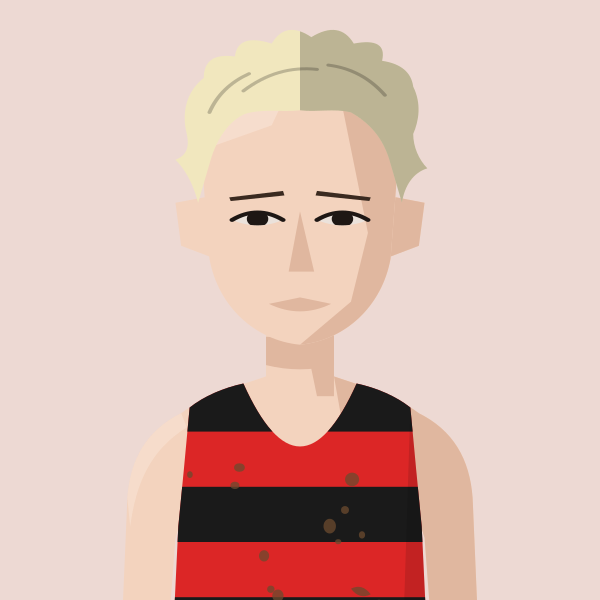
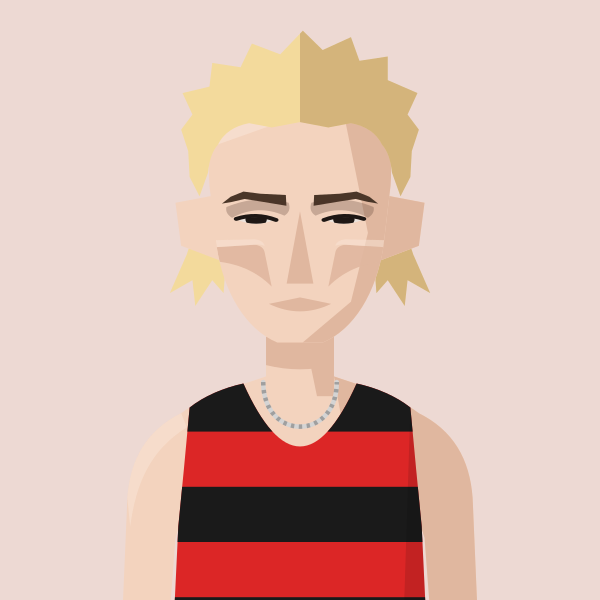
Redraw Morgan Roberts: bleached spiky top, tufts behind the ears, small deep-set eyes, cheekbones
Claude-Session: https://claude.ai/code/session_01MgmDWhFqnSSnP4iBLKXUZC

diff --git a/files/index.html b/files/index.html
@@ -827,7 +827,7 @@ const portraitFile=(name,club)=>{const k=normalizeNameForCompare(name||'').repla
 const portraitClubOf=(name,clubs)=>{for(const c of clubs||[]){if(c&&portraitFile(name,c))return c;}return null;}; /* first of these clubs we have a portrait for */
 // Athlete header figure: superstar portrait if we have one, else a grey runner in the club vest, else the plain vest icon
 // Changes whenever any portrait changes (set by tools/build_og.py), so browsers fetch fresh images instead of old cached ones
-const PORTRAIT_V='976057e5';const PORTRAIT_WOMEN='abbey-brooke,abbie-bulbulian,adele-prince,aimee-hargreaves,aisling-ahern,alex-brown,alex-gandee,alex-marginean,alex-miller,alexa-parker,alexandra-barbour,alice-braham,alice-bridger-morales,alice-crane,alice-martin,alice-reed,alice-smith,alison-purnell,alison-thomson,amelia-pettitt,amy-clements,andrea-barber,anika-schwarze-chintapatla,anna-garnier,anna-garnier-hw,anna-sharp,annabel-hobday,annabelle-hadlow,anne-hegvold,annmarie-seymour,ava-mcandie,becky-briggs,bethan-goddard,bethanie-murray,bethany-brown,betsy-griffiths,billie-mcclosky,camilla-barden,caoimhe-nic-fhogartaigh,carolyne-baxter,catherine-bryson,catherine-eastham,catherine-kandie,cathy-ansell,charlotte-griffiths,chloe-beckett,chloe-tighe,chrissie-wellington,claire-grima,clara-pettit,clare-elms,clare-pauzers,dillan-quinn,dorchie-cockerell,eilidh-hide,elinor-skinner,eliza-grant,elizabeth-apsley,elizabeth-stavreski,ella-fennelly,ella-king-powrie,ella-may-hards,ella-newton,ellen-weir,ellie-brown,ellie-freeden,eloise-bull,emilie-arnoux,emily-barrett,emily-bradley,emily-lowery,emily-robbins,emma-gordon,emma-howsham,emma-lord,emma-rowland,estle-viljoen,evie-warren,felicity-cole,felicity-harrison,felicity-hayward,fi-maddocks,fiona-de-mauny,florence-wiggins,gabby-collison,gabriel-reynolds,gemma-newport,genevieve-blanch,georgia-curry,georgie-bruinvels,georgie-fenn,georgie-furze,georgie-grgec,gina-galbraith,grace-leyland,grace-richardson,hannah-edwards,hannah-english,heather-statham,heather-statham-cc,helena-corbin,helena-keenan,holly-nixon,holly-pan,imogen-mackie,imogen-wolsey,iona-cousland,isabel-bradley,isabel-brinsden,isabelle-pickett,isobel-hodder,jennifer-nandi,jennifer-smith,jess-reed,jess-saunders,jess-winfield,jessica-davies,jessica-lowe,jodie-favell,josephine-rhodes,julia-bleasdale,julia-wedmore,juliet-hodder,jurgita-levertaviciute,justine-lynch,karen-fenner,karen-xiang,karina-box,kate-axford,kate-williams,kathy-sharpe,katie-ellen-french,katie-good,katie-snowden,katy-hedgethorne,kitty-shepherd-cross,kristina-popadich,lara-bromilow,lara-mangan,laura-goodson,laura-miles,lauren-major,lea-adamson,lily-newton,lisa-bailey,lisa-thomas,lisa-thomas-hw,lizzie-goldie-scot,louise-cooper,lucy-jones,lucy-macalister,lucy-peters,lydia-blackmore,lydia-gallyer-barnett,maddie-mastrolonardo,maddy-whitman,maeve-kenny,margaret-coogan,martina-conner,mary-james,mary-setyabule,matilde-lomba,megan-gildea,mel-wilkins,mhairi-hall,mimi-corden-lloyd,molly-oconnor,molly-smith,monika-gajek,naomi-lenane,natalie-beadle,natalie-seymour,natasha-lodge,niamh-thompson,nicky-hayes,nicola-cartlidge,nicola-douglas,nikki-sturzaker,olivia-papaioannou,olivia-stillman,orna-mcginley,pamela-mchutchon,patricia-walker,patrizia-gnoato,penny-oliver,rachel-brown,rebecca-barrow,rebekah-edgar,ruby-carter,ruby-whyte-wilding,ruby-woolfe,sally-urquhart,sam-whiting,samantha-munday,sarah-astin,sarah-dewhirst,sarah-grover,sarah-hanley,sarah-holt,sarah-murphy,sarah-palmer,sarah-palmer-ran,sarah-riceman,sarah-young,saron-haileselase,serena-carter,sophie-cowper,sophie-harris,sophie-hicks,sophie-tooley,stacey-ward,steph-hewitt,steph-mccall,steph-mccall-cc,steph-mccall-slh,steph-mitchell,suzanne-swaine,suze-spalding,suzie-harvey,suzy-whatmough,teresa-murphy,tilly-heaton,tilly-heaton-bel,tish-jones,vic-cartwright,vicky-clarke,victoria-barthelmess,victoria-buck,vikki-filsell,zoe-doyle,zoe-macdonald,zuzana-nemeckova';const PORTRAIT_MEN='aaron-wilson,abdulla-elsadig,adam-leane,adrian-major,adrien-royer,alan-black,alan-mead,alex-brecker,alex-bruce-littlewood,alex-gutteridge,alex-harris,alex-howard,alex-janiaud,alex-lee,alex-lennon,alex-mills,alex-milne,alex-morales,alex-robinson,alex-yee,alexander-marks,amittai-ben-israel,andrew-cumine,andrew-green,andrew-penney,andrew-perfect,andrew-simms,andrew-warburton,andrius-jaksevicius,andy-coley-maud,andy-coley-maud-cc,andy-fyfe,andy-north,andy-paton,andy-weir,angus-butler,angus-lamb,anisse-ismaili,arlo-ludewick,arne-dumez,arthur-peel,ashley-goncalves,barnaby-day,barry-collins,barry-sawyer,ben-clarke,ben-coughlan,ben-harding,ben-hurley,ben-ireland,ben-millar,ben-paviour,ben-pearce,ben-racle,ben-revill,ben-reynolds,ben-scott,ben-toomer,benedict-whitby,benjamin-hilson,bernie-ford,bill-kerr,bill-weller,bill-weller-wal,bob-harrison,bob-holt,bob-lunnon,bob-rayman,bob-smith,bradley-courtney-pinn,brandon-dewar,brian-gorman,brian-wilder,caleb-hathaway,callum-stewart,cameron-dockerill,cameron-reilly,carl-delaney,charles-herrington,charlie-dabbs,charlie-dickinson,charlie-eastaugh,charlie-manning,charlie-pickett,charlie-rogers,charlie-sandison,charlie-walker,charlie-wyllie,che-compton,chris-busaileh,chris-busaileh-hhh,chris-greenwood,chris-keavey,chris-moss,chris-steer,chris-threadgold,chris-warren,christian-lee,christopher-parker,clive-gilby,clive-shippen,colin-high,colin-pearson,conall-mcnally,conall-whelan,craig-ruddy,dame-dibaba,dan-cliffe,dan-pettitt,daniel-shaw,daniel-wolff,darren-mead,dave-beard,dave-beaver,dave-glassborow,dave-holt,dave-taylor,david-anderson,david-bowers,david-grima,david-north,david-ogden,david-symons,david-walsh,david-williams,deron-fagan,dick-piotrowski,dimos-evangelidis,dominic-kiralyfi,don-anderson,don-faircloth,don-maclean,doug-maughan,duncan-rimmer,dylan-evans,dylan-mitchard,ed-brewer,ed-catmur,ed-gibson,ed-mallett,eddie-herridge,eddie-jodrell,eddie-rolls,edward-chuck,eoin-brady,eoin-molloy,ethan-mccolgan,falilou-kebe,findlay-dyer,finn-johnson,fintan-pearce,frank-tickner,frank-ward,fred-paget,fred-slemeck,freddie-hessian,garret-lee,gary-ribbons,gary-ribbons-ee,gary-staines,gary-staines-bel,gavin-eccles,geoff-biscoe,geoff-jerwood,geoff-north,george-cotton,george-gathercole,george-jackson,george-loxton,george-mallett,george-ogden,gerry-adams,gerry-north,glen-keegan,gordon-pearce,graham-macky,harrison-hayman,harry-guttridge,hector-revill,henry-hart,henry-silverstein,hugo-hewitt,huw-lobb,ian-acreman,ian-crowe-wright,ian-ellwood,ian-harkness,indy-barnes,isaac-lutaya,isaac-parker,jack-brotchie,jack-dickson,jack-dormer,jack-hampshire,jack-harrison,jack-hobden,jack-kavanagh,jack-millar,jack-ramm,jack-woods,jacob-brockmann,jake-simmonds,james-bartram,james-blackwood,james-bowler,james-estall,james-ewing,james-fox,james-hancock,james-harvey,james-hoad,james-kelly,james-mcmullan,james-murray,james-nutt,james-preston,james-roberts,james-stockings,james-ward,james-wootton,jamie-crowe,jamie-parkinson,jared-martin,jean-paul-wright,jeff-cunningham,jeremy-dempsey,jermaine-mays,jerry-watson,jim-allchin,jim-rimmer,joe-english,joe-hartley,john-baker,john-bicourt,john-bromley,john-davies,john-dear,john-foss,john-foxall,john-gilbert,john-gladwin,john-hutchins,john-kendall,john-kimaiyo,john-lee,john-lethbridge,john-mather,john-moore,john-roberts,john-sanderson,john-stow,john-sullivan,john-thresher,jon-hobbs,jon-pepper,jon-pepper-slh,jon-phillips,jon-solly,jonathan-cocker,jonathan-collier,jonathan-cornish,jonathan-ratcliffe,jonathan-tipper,jonny-neville,jonny-scott,jordan-weaver,josh-mitchell,josh-snow,josh-trigwell,jules-gevers,junior-galley,justin-chaston,justin-reid,kassa-tadesse,keith-newton,kevin-nash,kevin-quinn,kevin-sturman,kieran-barnes,kieran-white,knut-hegvold,knut-hegvold-bel,larry-ryan,lawrence-avery,lee-lintern,lewis-lloyd,liam-burthem,lionel-mann,lloyd-kempson,luke-caldwell,mack-downie,malachi-byansi,marcello-bizio,marcelo-fortes,marco-mazzotta,mark-anderson,mark-miles,mark-sinclair,mark-tennyson,mark-waller,martin-dent,martin-lake,martin-lewington,martin-shore,mathew-speed,matt-chaston,matt-jones,matt-wood,matthew-edgar,matthew-houchell,matthew-thomas,matthew-varley,max-bloor,max-heyden,max-milarvie,max-nicholls,michael-baker,michael-mccarthy,mick-woods,mike-beevor,mike-boyle,mike-cummings,mike-farmery,mike-fuller,mike-hayes,mike-kortenray,mike-nouch,mohammed-ismail,monty-hudson,morgan-roberts,nathan-visick,neil-chisholm,neil-phillips,neil-speaight,neil-wilson,nic-lukies,nick-acfield,nick-altmann,nick-bester,nick-bester-hhh,nick-buckle,nick-bundle,nick-goolab,nick-lightfoot,nick-morris,nick-torry,noah-fernandez,norman-stairs,oli-carrington,oliver-carrington,oliver-fox,oliver-reynolds,oliver-young,ollie-foote,ollie-garrod,olly-buck,owen-hind,paddy-roddy,pancho-panchev,paskar-owor,pat-newell,patrick-mcdougall,paul-calver,paul-cheetham,paul-freary,paul-magner,paul-pollock,paul-sanderson,paul-sanderson-wok,pete-carton,pete-gardner,peter-clarke,peter-giles,peter-giles-thh,peter-lighting,phil-carstairs,phil-sanders,phil-sesemann,phil-swinburn,phil-wicks,phil-woodford-smith,raj-paranandi,ralph-street,ranjit-bhatia,ray-foley,reece-edwards,rhys-boorman,rian-mccawley,richard-ashe,richard-giles,richard-henderson,richard-langley,richard-mcdowell,richard-ollington,richard-partridge,richard-sun,richard-ward,rob-armstrong,rob-kelly,rob-tuer,robert-elphick,robert-laing,robert-norville,robert-peacock,robert-sesemann,robin-boon,robin-hudson,roger-alsop,roger-alsop-bel,roger-hackney,ron-clark,ron-linstead,ronan-tanguy,rory-mcmahon,rory-orsborn,ross-braden,ross-christie,rowan-board,rowan-crichton,russell-dessaix-chin,ryan-hickey,ryan-mccallister,sam-bramwell,sam-charlton,sam-gebreselassie,sam-haughian,sam-peters,sam-sommerville,sam-tyas,samuel-dames,samuel-wilcock,sean-cordon,sebastian-anthony,simon-baines,simon-coombes,simon-coppard,simon-fairbrother,simon-holmes,simon-rayner,simon-rayner-hw,simon-wade,simon-wade-hhh,simon-waterhouse,simon-williams,simon-wurr,sonny-nicoll,spencer-barden,stephen-mcleod,stephen-sharp,steve-gardner,steve-jones,steve-smythe,steve-smythe-hhh,stuart-beaney,stuart-major,stuart-major-thh,stuart-mccallum,stuart-paton,terry-booth,thomas-dugre,thomas-gandee,thomas-gardner,thomas-renshaw,tim-alexander,tim-eglen,tim-lawrence,tim-watson,toby-cooke,toby-fletcher,tom-austin,tom-cheetham,tom-conlon,tom-davies,tom-gifford,tom-higgs,tom-jervis,tom-lole,tom-south,tom-thornley,tommy-taylor,tony-binda,tony-fairclough,tony-harran,trevor-hart,valdis-pauzers,valentin-rigori,vic-maughan,wayne-oxborough,will-cockerell,will-lewis,will-marshall,will-scott,will-stockley,william-gardner,yacin-yusuf,zach-nolan';
+const PORTRAIT_V='1c23ba63';const PORTRAIT_WOMEN='abbey-brooke,abbie-bulbulian,adele-prince,aimee-hargreaves,aisling-ahern,alex-brown,alex-gandee,alex-marginean,alex-miller,alexa-parker,alexandra-barbour,alice-braham,alice-bridger-morales,alice-crane,alice-martin,alice-reed,alice-smith,alison-purnell,alison-thomson,amelia-pettitt,amy-clements,andrea-barber,anika-schwarze-chintapatla,anna-garnier,anna-garnier-hw,anna-sharp,annabel-hobday,annabelle-hadlow,anne-hegvold,annmarie-seymour,ava-mcandie,becky-briggs,bethan-goddard,bethanie-murray,bethany-brown,betsy-griffiths,billie-mcclosky,camilla-barden,caoimhe-nic-fhogartaigh,carolyne-baxter,catherine-bryson,catherine-eastham,catherine-kandie,cathy-ansell,charlotte-griffiths,chloe-beckett,chloe-tighe,chrissie-wellington,claire-grima,clara-pettit,clare-elms,clare-pauzers,dillan-quinn,dorchie-cockerell,eilidh-hide,elinor-skinner,eliza-grant,elizabeth-apsley,elizabeth-stavreski,ella-fennelly,ella-king-powrie,ella-may-hards,ella-newton,ellen-weir,ellie-brown,ellie-freeden,eloise-bull,emilie-arnoux,emily-barrett,emily-bradley,emily-lowery,emily-robbins,emma-gordon,emma-howsham,emma-lord,emma-rowland,estle-viljoen,evie-warren,felicity-cole,felicity-harrison,felicity-hayward,fi-maddocks,fiona-de-mauny,florence-wiggins,gabby-collison,gabriel-reynolds,gemma-newport,genevieve-blanch,georgia-curry,georgie-bruinvels,georgie-fenn,georgie-furze,georgie-grgec,gina-galbraith,grace-leyland,grace-richardson,hannah-edwards,hannah-english,heather-statham,heather-statham-cc,helena-corbin,helena-keenan,holly-nixon,holly-pan,imogen-mackie,imogen-wolsey,iona-cousland,isabel-bradley,isabel-brinsden,isabelle-pickett,isobel-hodder,jennifer-nandi,jennifer-smith,jess-reed,jess-saunders,jess-winfield,jessica-davies,jessica-lowe,jodie-favell,josephine-rhodes,julia-bleasdale,julia-wedmore,juliet-hodder,jurgita-levertaviciute,justine-lynch,karen-fenner,karen-xiang,karina-box,kate-axford,kate-williams,kathy-sharpe,katie-ellen-french,katie-good,katie-snowden,katy-hedgethorne,kitty-shepherd-cross,kristina-popadich,lara-bromilow,lara-mangan,laura-goodson,laura-miles,lauren-major,lea-adamson,lily-newton,lisa-bailey,lisa-thomas,lisa-thomas-hw,lizzie-goldie-scot,louise-cooper,lucy-jones,lucy-macalister,lucy-peters,lydia-blackmore,lydia-gallyer-barnett,maddie-mastrolonardo,maddy-whitman,maeve-kenny,margaret-coogan,martina-conner,mary-james,mary-setyabule,matilde-lomba,megan-gildea,mel-wilkins,mhairi-hall,mimi-corden-lloyd,molly-oconnor,molly-smith,monika-gajek,naomi-lenane,natalie-beadle,natalie-seymour,natasha-lodge,niamh-thompson,nicky-hayes,nicola-cartlidge,nicola-douglas,nikki-sturzaker,olivia-papaioannou,olivia-stillman,orna-mcginley,pamela-mchutchon,patricia-walker,patrizia-gnoato,penny-oliver,rachel-brown,rebecca-barrow,rebekah-edgar,ruby-carter,ruby-whyte-wilding,ruby-woolfe,sally-urquhart,sam-whiting,samantha-munday,sarah-astin,sarah-dewhirst,sarah-grover,sarah-hanley,sarah-holt,sarah-murphy,sarah-palmer,sarah-palmer-ran,sarah-riceman,sarah-young,saron-haileselase,serena-carter,sophie-cowper,sophie-harris,sophie-hicks,sophie-tooley,stacey-ward,steph-hewitt,steph-mccall,steph-mccall-cc,steph-mccall-slh,steph-mitchell,suzanne-swaine,suze-spalding,suzie-harvey,suzy-whatmough,teresa-murphy,tilly-heaton,tilly-heaton-bel,tish-jones,vic-cartwright,vicky-clarke,victoria-barthelmess,victoria-buck,vikki-filsell,zoe-doyle,zoe-macdonald,zuzana-nemeckova';const PORTRAIT_MEN='aaron-wilson,abdulla-elsadig,adam-leane,adrian-major,adrien-royer,alan-black,alan-mead,alex-brecker,alex-bruce-littlewood,alex-gutteridge,alex-harris,alex-howard,alex-janiaud,alex-lee,alex-lennon,alex-mills,alex-milne,alex-morales,alex-robinson,alex-yee,alexander-marks,amittai-ben-israel,andrew-cumine,andrew-green,andrew-penney,andrew-perfect,andrew-simms,andrew-warburton,andrius-jaksevicius,andy-coley-maud,andy-coley-maud-cc,andy-fyfe,andy-north,andy-paton,andy-weir,angus-butler,angus-lamb,anisse-ismaili,arlo-ludewick,arne-dumez,arthur-peel,ashley-goncalves,barnaby-day,barry-collins,barry-sawyer,ben-clarke,ben-coughlan,ben-harding,ben-hurley,ben-ireland,ben-millar,ben-paviour,ben-pearce,ben-racle,ben-revill,ben-reynolds,ben-scott,ben-toomer,benedict-whitby,benjamin-hilson,bernie-ford,bill-kerr,bill-weller,bill-weller-wal,bob-harrison,bob-holt,bob-lunnon,bob-rayman,bob-smith,bradley-courtney-pinn,brandon-dewar,brian-gorman,brian-wilder,caleb-hathaway,callum-stewart,cameron-dockerill,cameron-reilly,carl-delaney,charles-herrington,charlie-dabbs,charlie-dickinson,charlie-eastaugh,charlie-manning,charlie-pickett,charlie-rogers,charlie-sandison,charlie-walker,charlie-wyllie,che-compton,chris-busaileh,chris-busaileh-hhh,chris-greenwood,chris-keavey,chris-moss,chris-steer,chris-threadgold,chris-warren,christian-lee,christopher-parker,clive-gilby,clive-shippen,colin-high,colin-pearson,conall-mcnally,conall-whelan,craig-ruddy,dame-dibaba,dan-cliffe,dan-pettitt,daniel-shaw,daniel-wolff,darren-mead,dave-beard,dave-beaver,dave-glassborow,dave-holt,dave-taylor,david-anderson,david-bowers,david-grima,david-north,david-ogden,david-symons,david-walsh,david-williams,deron-fagan,dick-piotrowski,dimos-evangelidis,dominic-kiralyfi,don-anderson,don-faircloth,don-maclean,doug-maughan,duncan-rimmer,dylan-evans,dylan-mitchard,ed-brewer,ed-catmur,ed-gibson,ed-mallett,eddie-herridge,eddie-jodrell,eddie-rolls,edward-chuck,eoin-brady,eoin-molloy,ethan-mccolgan,falilou-kebe,findlay-dyer,finn-johnson,fintan-pearce,frank-tickner,frank-ward,fred-paget,fred-slemeck,freddie-hessian,garret-lee,gary-ribbons,gary-ribbons-ee,gary-staines,gary-staines-bel,gavin-eccles,geoff-biscoe,geoff-jerwood,geoff-north,george-cotton,george-gathercole,george-jackson,george-loxton,george-mallett,george-ogden,gerry-adams,gerry-north,glen-keegan,gordon-pearce,graham-macky,harrison-hayman,harry-guttridge,hector-revill,henry-hart,henry-silverstein,hugo-hewitt,huw-lobb,ian-acreman,ian-crowe-wright,ian-ellwood,ian-harkness,indy-barnes,isaac-lutaya,isaac-parker,jack-brotchie,jack-dickson,jack-dormer,jack-hampshire,jack-harrison,jack-hobden,jack-kavanagh,jack-millar,jack-ramm,jack-woods,jacob-brockmann,jake-simmonds,james-bartram,james-blackwood,james-bowler,james-estall,james-ewing,james-fox,james-hancock,james-harvey,james-hoad,james-kelly,james-mcmullan,james-murray,james-nutt,james-preston,james-roberts,james-stockings,james-ward,james-wootton,jamie-crowe,jamie-parkinson,jared-martin,jean-paul-wright,jeff-cunningham,jeremy-dempsey,jermaine-mays,jerry-watson,jim-allchin,jim-rimmer,joe-english,joe-hartley,john-baker,john-bicourt,john-bromley,john-davies,john-dear,john-foss,john-foxall,john-gilbert,john-gladwin,john-hutchins,john-kendall,john-kimaiyo,john-lee,john-lethbridge,john-mather,john-moore,john-roberts,john-sanderson,john-stow,john-sullivan,john-thresher,jon-hobbs,jon-pepper,jon-pepper-slh,jon-phillips,jon-solly,jonathan-cocker,jonathan-collier,jonathan-cornish,jonathan-ratcliffe,jonathan-tipper,jonny-neville,jonny-scott,jordan-weaver,josh-mitchell,josh-snow,josh-trigwell,jules-gevers,junior-galley,justin-chaston,justin-reid,kassa-tadesse,keith-newton,kevin-nash,kevin-quinn,kevin-sturman,kieran-barnes,kieran-white,knut-hegvold,knut-hegvold-bel,larry-ryan,lawrence-avery,lee-lintern,lewis-lloyd,liam-burthem,lionel-mann,lloyd-kempson,luke-caldwell,mack-downie,malachi-byansi,marcello-bizio,marcelo-fortes,marco-mazzotta,mark-anderson,mark-miles,mark-sinclair,mark-tennyson,mark-waller,martin-dent,martin-lake,martin-lewington,martin-shore,mathew-speed,matt-chaston,matt-jones,matt-wood,matthew-edgar,matthew-houchell,matthew-thomas,matthew-varley,max-bloor,max-heyden,max-milarvie,max-nicholls,michael-baker,michael-mccarthy,mick-woods,mike-beevor,mike-boyle,mike-cummings,mike-farmery,mike-fuller,mike-hayes,mike-kortenray,mike-nouch,mohammed-ismail,monty-hudson,morgan-roberts,nathan-visick,neil-chisholm,neil-phillips,neil-speaight,neil-wilson,nic-lukies,nick-acfield,nick-altmann,nick-bester,nick-bester-hhh,nick-buckle,nick-bundle,nick-goolab,nick-lightfoot,nick-morris,nick-torry,noah-fernandez,norman-stairs,oli-carrington,oliver-carrington,oliver-fox,oliver-reynolds,oliver-young,ollie-foote,ollie-garrod,olly-buck,owen-hind,paddy-roddy,pancho-panchev,paskar-owor,pat-newell,patrick-mcdougall,paul-calver,paul-cheetham,paul-freary,paul-magner,paul-pollock,paul-sanderson,paul-sanderson-wok,pete-carton,pete-gardner,peter-clarke,peter-giles,peter-giles-thh,peter-lighting,phil-carstairs,phil-sanders,phil-sesemann,phil-swinburn,phil-wicks,phil-woodford-smith,raj-paranandi,ralph-street,ranjit-bhatia,ray-foley,reece-edwards,rhys-boorman,rian-mccawley,richard-ashe,richard-giles,richard-henderson,richard-langley,richard-mcdowell,richard-ollington,richard-partridge,richard-sun,richard-ward,rob-armstrong,rob-kelly,rob-tuer,robert-elphick,robert-laing,robert-norville,robert-peacock,robert-sesemann,robin-boon,robin-hudson,roger-alsop,roger-alsop-bel,roger-hackney,ron-clark,ron-linstead,ronan-tanguy,rory-mcmahon,rory-orsborn,ross-braden,ross-christie,rowan-board,rowan-crichton,russell-dessaix-chin,ryan-hickey,ryan-mccallister,sam-bramwell,sam-charlton,sam-gebreselassie,sam-haughian,sam-peters,sam-sommerville,sam-tyas,samuel-dames,samuel-wilcock,sean-cordon,sebastian-anthony,simon-baines,simon-coombes,simon-coppard,simon-fairbrother,simon-holmes,simon-rayner,simon-rayner-hw,simon-wade,simon-wade-hhh,simon-waterhouse,simon-williams,simon-wurr,sonny-nicoll,spencer-barden,stephen-mcleod,stephen-sharp,steve-gardner,steve-jones,steve-smythe,steve-smythe-hhh,stuart-beaney,stuart-major,stuart-major-thh,stuart-mccallum,stuart-paton,terry-booth,thomas-dugre,thomas-gandee,thomas-gardner,thomas-renshaw,tim-alexander,tim-eglen,tim-lawrence,tim-watson,toby-cooke,toby-fletcher,tom-austin,tom-cheetham,tom-conlon,tom-davies,tom-gifford,tom-higgs,tom-jervis,tom-lole,tom-south,tom-thornley,tommy-taylor,tony-binda,tony-fairclough,tony-harran,trevor-hart,valdis-pauzers,valentin-rigori,vic-maughan,wayne-oxborough,will-cockerell,will-lewis,will-marshall,will-scott,will-stockley,william-gardner,yacin-yusuf,zach-nolan';
 // Runners whose dog pops up on their own profile page (a -dog.svg version of their portrait)
 const PROFILE_DOGS=new Set(['john-sanderson','penny-oliver','james-hancock','angus-butler']);
 const AthletePortrait=({name,club,w,fill,onClick,blink})=>{const[failed,setFailed]=useState(false);const file=portraitFile(name,club);const src0=file?`/portraits/athletes/${file}.svg?v=${PORTRAIT_V}`:PORTRAIT_CLUBS.has(club)?`/portraits/clubs/${club.replace(/\//g,'').replace(/&/g,'and')}.svg?v=${PORTRAIT_V}`:null;const blinkSrc=useBlinkSrc(file?(PROFILE_DOGS.has(file)?`/portraits/athletes/${file}-dog.svg?v=${PORTRAIT_V}`:src0):null,!!blink);const src=blinkSrc||src0;if(!src||failed)return<div onClick={onClick} className={onClick?'cursor-pointer':''}><ClubShield club={club} size={w}/></div>;const h=Math.round(w*148/126),ih=Math.round(w*1.4);if(fill)return<div onClick={onClick} className="cursor-pointer" style={{alignSelf:'stretch',minHeight:h,aspectRatio:'126 / 148',flexShrink:0,position:'relative',borderRadius:4,overflow:'hidden'}}><img src={src} alt={file?`Portrait of ${name.replace(/\s*\([^)]*\)$/,'')}`:`Runner in ${CLUBS[club]?.name||club} vest`} style={{position:'absolute',top:0,left:0,display:'block',width:'100%',height:'auto'}} onError={()=>setFailed(true)}/></div>;return<div style={{width:w,height:h,borderRadius:4,overflow:'hidden',flexShrink:0}}><img src={src} alt={file?`Portrait of ${name.replace(/\s*\([^)]*\)$/,'')}`:`Runner in ${CLUBS[club]?.name||club} vest`} width={w} height={ih} style={{display:'block',width:w,height:ih}} onError={()=>setFailed(true)}/></div>;};

diff --git a/tools/gen_portraits.py b/tools/gen_portraits.py
@@ -1875,4 +1875,21 @@ HAIR["quifflow"] = '<path d="M64,100 L63,72 L72,52 L86,38 L104,29 L122,33 L134,4
 # Tom Foster (G&G), redrawn Oct 2026: short dark textured quiff with a slight recede and greying sides, long lean face, high cheekbones,
 # short dark stubble, heavy straight brows set low over deep-set eyes, long straight nose
 save("foster", cheekbones(sockets(nose(angledbrows(brows(eyes(figure("G&G", skin=1, hair="quifflow", hair_colour="#2A2220", brow_colour="#221A16", facial="stubble", facial_colour="#2E2724", greying="sides", jaw="long"), None, 0), 0, 0, 4), 1.2), 0.95, 1.2), depth=1.2), depth=1.0))
+# ---- Spiky top with tight sides, hair poking out behind the ears, warm shading for bleached hair (Oct 2026, first used for Morgan Roberts) ----
+HAIR["spikyup"] = '<path d="M64.5,101 L61,92 L60.5,80 L58,70 L62,63 L58.5,53 L68,50 L69,39 L79,41 L83,30 L93,35 L101,24 L108,33 L118,27 L121,38 L131,36 L131,47 L141.5,53 L138,63 L142,70 L139.5,80 L139,92 L135.5,101 L132.5,90 C132,84 131,80 129,77 Q126,69 118,67 L110,69 L100,66.5 L90,69 L82,67 Q74,69 71,77 C69,80 68,84 67.5,90 Z"/>'  # messy spiky top swept up, sides kept tight above the ears (Morgan Roberts)
+FACIAL["goateestubble"] = '<path fill-rule="evenodd" opacity=".2" d="M84,141 L100,137.5 L116,141 L114,152 L111,163 L107,171 Q100,173.5 93,171 L89,163 L86,152 Z M91,146.5 L109,146.5 L107,157.5 Q100,160.5 93,157.5 Z"/>'  # stubble round the mouth and on the chin only (Morgan Roberts)
+def napeflicks(svg, col):
+    """Hair poking out low at the back of the head, below and behind the ears (drawn behind the head and ears)."""
+    g = '<g transform="translate(0,83) scale(1,0.76) translate(0,-40)">'
+    f = (f'<g fill="{col}"><path d="M72,104 L64,112 L60,128 L54,146 L62,140 L63,152 L69,140 L73,146 L74,128 Z"/>'
+         f'<path d="M128,104 L136,112 L140,128 L146,146 L138,140 L137,152 L131,140 L127,146 L126,128 Z"/></g>'
+         f'<g clip-path="url(#rf)" fill="#000" opacity=".22"><path d="M128,104 L136,112 L140,128 L146,146 L138,140 L137,152 L131,140 L127,146 L126,128 Z"/></g>')
+    i = svg.find(g)
+    return svg[:i+len(g)] + f + svg[i+len(g):] if i >= 0 else svg
+def warmshade(svg, col="#8A5A2A", op=".3"):
+    """Shade the far side of light (blond/bleached) hair with a warm brown instead of grey, so it doesn't turn khaki."""
+    return svg.replace('fill="#000" opacity=".22">', f'fill="{col}" opacity="{op}">')
+# Morgan Roberts (HHH), redrawn Oct 2026: bleached messy hair swept up into spikes, tight above the ears and poking out low behind them,
+# long pale face, dark straight brows set low over small deep-set eyes, defined cheekbones, long nose, fine silver chain
+save("roberts", warmshade(napeflicks(cheekbones(sockets(nose(angledbrows(brows(eyes(figure("HHH", skin=1, hair="spikyup", hair_colour="#F3DA9C", brow_colour="#4A3628", necklace="#D4D4D4", jaw="long"), "small", 0.5), 0, 0.5, 4), 0.6), 1.05, 1.2), depth=1.6), depth=1.3), "#F3DA9C")))
 export_site()
